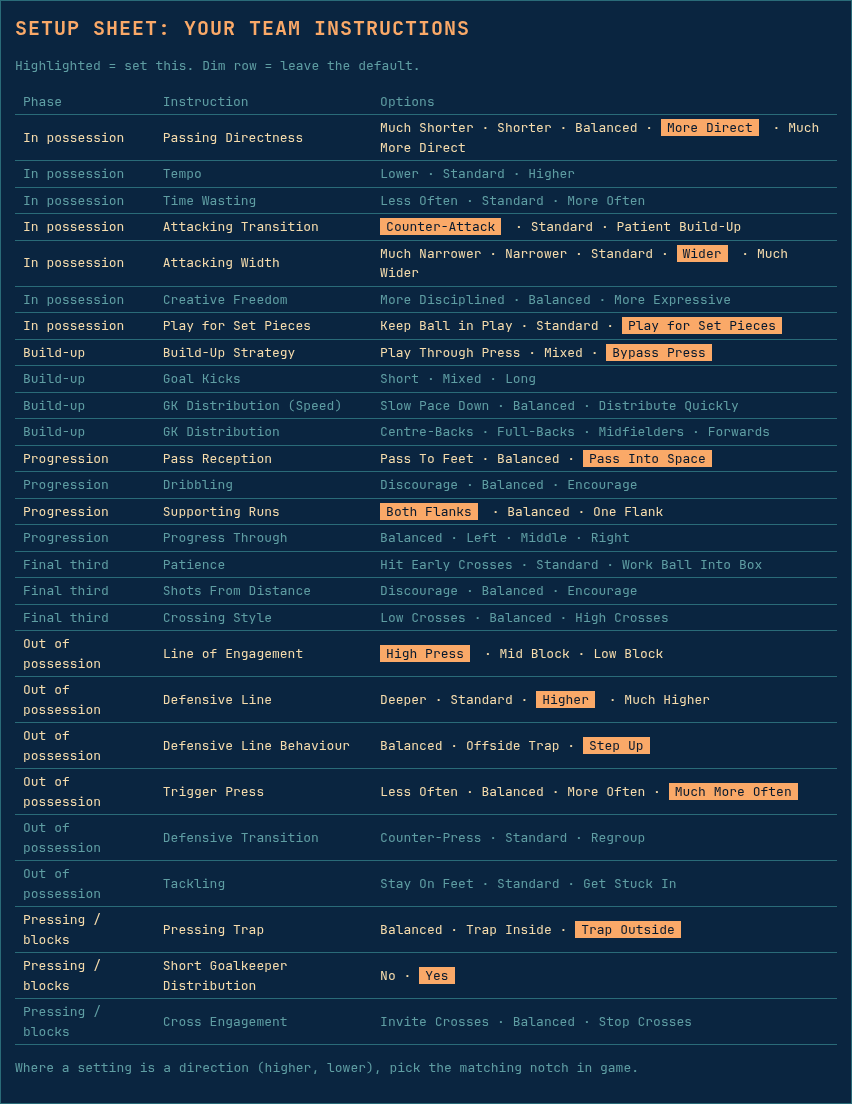
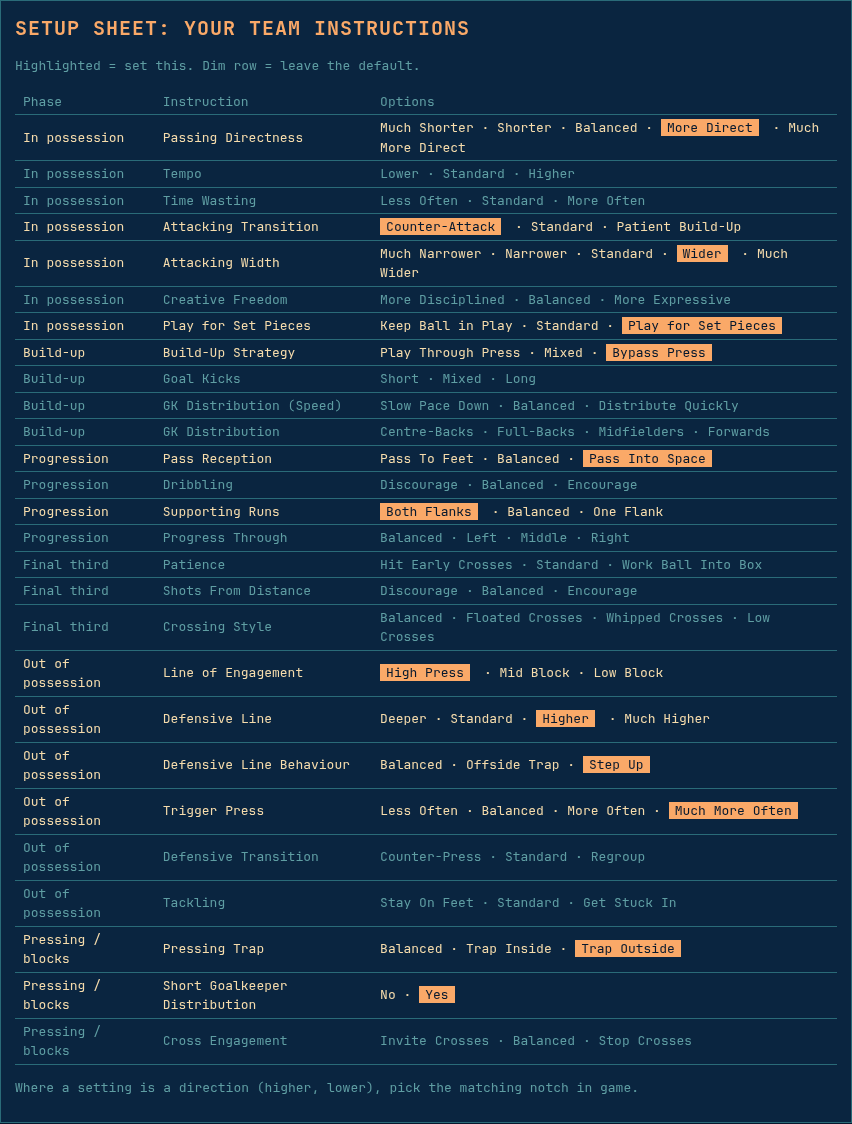
Crossing Style options from the game: Balanced / Floated / Whipped / Low Crosses

diff --git a/index.html b/index.html
@@ -170,7 +170,7 @@ const TI=[
   ['Progression','Progress Through',['Balanced','Left','Middle','Right']],
   ['Final third','Patience',['Hit Early Crosses','Standard','Work Ball Into Box']],
   ['Final third','Shots From Distance',['Discourage','Balanced','Encourage']],
-  ['Final third','Crossing Style',['Low Crosses','Balanced','High Crosses']],
+  ['Final third','Crossing Style',['Balanced','Floated Crosses','Whipped Crosses','Low Crosses']],
   ['Out of possession','Line of Engagement',['High Press','Mid Block','Low Block'],true],
   ['Out of possession','Defensive Line',['Deeper','Standard','Higher','Much Higher']],
   ['Out of possession','Defensive Line Behaviour',['Balanced','Offside Trap','Step Up']],
@@ -252,8 +252,8 @@ const TWEAKS=[
     set:{'Attacking Width':'Narrower','Patience':'Work Ball Into Box'}},
   {key:'setPieces',ask:'Vulnerable at set pieces',text:'Play for Set Pieces: win corners and free kicks; tall players on corners, one on the edge of the box',
     why:'Vulnerable at set pieces',set:{'Play for Set Pieces':'Play for Set Pieces'}},
-  {key:'weakAir',ask:'Weak in the air',text:'Crossing Style: high crosses; a Target Forward to attack them',why:'Weak in the air',own:true,set:{'Crossing Style':'High Crosses'}},
-  {key:'strongAir',ask:'Strong in the air',text:"Crossing Style: low crosses - don't float it to their centre-backs",why:'Strong in the air',own:true,set:{'Crossing Style':'Low Crosses'}},
+  {key:'weakAir',ask:'Weak in the air',text:'Crossing Style: Floated Crosses; a Target Forward to attack them',why:'Weak in the air',own:true,set:{'Crossing Style':'Floated Crosses'}},
+  {key:'strongAir',ask:'Strong in the air',text:"Crossing Style: Low Crosses - don't float it to their centre-backs",why:'Strong in the air',own:true,set:{'Crossing Style':'Low Crosses'}},
   {key:'slowDef',ask:'Slow defenders',text:'Balls in behind: Pass Reception into space, more direct, ST as Channel Forward; two strikers trouble slow CBs',
     why:'Slow defenders (formation sheet: 4-4-2 vs slow CBs)',set:{'Pass Reception':'Pass Into Space','Passing Directness':'More Direct'}},
   {key:'counterVuln',ask:'Vulnerable to counter-attacks',text:'Attacking Transition: counter-attack the moment you win it',why:'Vulnerable to counter-attacks',own:true,set:{'Attacking Transition':'Counter-Attack'}},

diff --git a/test/engine.test.js b/test/engine.test.js
@@ -66,8 +66,8 @@ test('scout report: where they score decides crosses vs stepping up', () => {
 test('scout report: set pieces, and overrides of the plan are reported', () => {
   assert.equal(r({setPieces:true}).set['Play for Set Pieces'],'Play for Set Pieces');
   const x=r({mentality:'defensive',formation:'5-4-1',weakAir:true}); // cautious plan says Low Crosses
-  assert.equal(x.plan,'cautious');assert.equal(x.set['Crossing Style'],'High Crosses');
-  assert.ok(x.clashes.some(c=>c.startsWith('Crossing Style: High Crosses (Weak in the air) replaces Low Crosses (plan)')));
+  assert.equal(x.plan,'cautious');assert.equal(x.set['Crossing Style'],'Floated Crosses');
+  assert.ok(x.clashes.some(c=>c.startsWith('Crossing Style: Floated Crosses (Weak in the air) replaces Low Crosses (plan)')));
 });
 test('every scout answer only sets real instructions', () => {
   checkSet(r({goalsFrom:'crosses',setPieces:true,weakAir:true,slowDef:true,counterVuln:true,longShots:true,fouls:true,lateGoals:true}).set);
